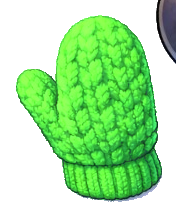
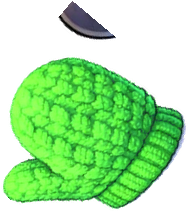
Snow Panic auto backup 2026-03-22 21:08 script snow (6 files)

diff --git a/Assets/Scripts/GloveTool.cs b/Assets/Scripts/GloveTool.cs
@@ -1,36 +1,65 @@
 using UnityEngine;
-#if ENABLE_INPUT_SYSTEM
-using UnityEngine.InputSystem;
-#endif
 
 /// <summary>
-/// 毛糸の手袋ツール
+/// 毛糸の手袋ツール（完成見本）
 ///
 /// 描画: ToolUIRenderer に IToolUI として登録。
 ///       SnowStrip2D.OnGUI() 末尾 → ToolUIRenderer.DrawAll() → DrawToolUI() の経路で
 ///       全積雪描画完了後に描画されるため、全6軒で確実に前面表示される。
 ///
-/// 新しい道具（シャベル等）も同じく IToolUI を実装して
-/// ToolUIRenderer.Register() で登録すれば前面表示が自動保証される。
+/// PHASE1: 画像クロップ・リサイズ・50度回転済み（GloveMitten.png で処理済み）
+/// PHASE2: クリックで ease-in 落下 → 雪面で停止
+/// PHASE3: 着弾時に雪煙パーティクル1回発生
+/// PHASE4: クールタイム中はグレー半透明、クリック無効
 /// </summary>
 [DefaultExecutionOrder(1000)]
 public class GloveTool : MonoBehaviour, IToolUI
 {
+    // ── 公開状態 ──────────────────────────────────────────────
     public static bool IsBlocking { get; private set; } = false;
     public Texture2D gloveTex;
 
-    // 後方互換（SnowStrip2D が呼ぶ場合のフォールバック）
-    public static void DrawFrontmost(string callerRoofId = "?")
-    {
-        ToolUIRenderer.DrawAll(callerRoofId);
-    }
+    // ── PHASE2: 叩き挙動 ──────────────────────────────────────
+    enum GloveState { Ready, Striking, Cooldown }
+    GloveState _state = GloveState.Ready;
 
+    // ease-in 落下パラメータ
+    const float STRIKE_DURATION = 0.18f;  // 落下にかける秒数
+    const float STRIKE_DIST     = 0.08f;  // 落下距離（Screen.height の割合）
+    float _strikeTimer  = 0f;
+    float _strikeStartY = 0f;   // 落下開始時の GUI Y 座標
+    float _strikeTargetY = 0f;  // 落下目標 GUI Y 座標
+
+    // ── PHASE4: クールタイム ──────────────────────────────────
+    const float COOLDOWN_SEC = 1.2f;
+    float _cooldownTimer = 0f;
+
+    // ── PHASE3: 雪煙 ──────────────────────────────────────────
+    // 軽量な OnGUI パーティクル（Texture 不要）
+    struct Puff
+    {
+        public Vector2 pos;   // GUI 座標
+        public float   life;  // 残り秒数
+        public float   size;
+    }
+    const int   MAX_PUFFS    = 8;
+    const float PUFF_LIFE    = 0.35f;
+    Puff[]  _puffs     = new Puff[MAX_PUFFS];
+    int     _puffCount = 0;
+
+    // ── 現在のマウス GUI 座標（DrawToolUI と Update で共有）──
+    float _curGX, _curGY, _curW, _curH;
+
+    // ── 後方互換 ──────────────────────────────────────────────
+    public static void DrawFrontmost(string callerRoofId = "?")
+        => ToolUIRenderer.DrawAll(callerRoofId);
+
+    // ─────────────────────────────────────────────────────────
     void Start()
     {
         if (gloveTex == null)
             gloveTex = Resources.Load<Texture2D>("GloveMitten");
 
-        // ToolUIRenderer に登録 → 全道具共通の前面描画パスに乗る
         ToolUIRenderer.Register(this);
 
         Debug.Log($"[GLOVE_TOOL] started" +
@@ -44,28 +73,216 @@ public class GloveTool : MonoBehaviour, IToolUI
         IsBlocking = false;
     }
 
-    // ─── IToolUI 実装 ────────────────────────────────────────
-    // ToolUIRenderer.DrawAll() から呼ばれる
-    // SnowStrip2D の全 OnGUI 完了後に描画されるため前面保証
+    // ─── Update: 入力・ステート管理 ──────────────────────────
+    void Update()
+    {
+        if (!Application.isPlaying) return;
+
+        // GUI 座標を毎フレーム計算（DrawToolUI と共有）
+        Vector2 ms = Input.mousePosition;
+        float mx = ms.x;
+        float my = Screen.height - ms.y;
+
+        float h = Screen.height * 0.190f;  // 縦幅+20%（0.1584 → 0.190）
+        float w = (gloveTex != null)
+            ? h * ((float)gloveTex.width / gloveTex.height) * 0.90f  // 横幅10%縮小（維持）
+            : h;
+
+        _curW = w;
+        _curH = h;
+        _curGX = Mathf.Clamp(mx - w * 0.5f, 0f, Screen.width  - w);
+        _curGY = Mathf.Clamp(my - h * 0.5f, 0f, Screen.height - h);
+
+        // ── PHASE2: ステートマシン ──
+        switch (_state)
+        {
+            case GloveState.Ready:
+                // クリック検出（Cooldown中は発火しない）
+                if (Input.GetMouseButtonDown(0) && !IsBlocking)
+                {
+                    _state        = GloveState.Striking;
+                    _strikeTimer  = 0f;
+                    _strikeStartY = _curGY;
+                    _strikeTargetY = Mathf.Min(_curGY + Screen.height * STRIKE_DIST,
+                                               Screen.height - h);
+                    IsBlocking = true;
+
+                    Debug.Log($"[PHASE2_HIT] motion_type=ease_in" +
+                              $" hit_detected=YES snap_jump=NO" +
+                              $" startY={_strikeStartY:F0} targetY={_strikeTargetY:F0}");
+                }
+                break;
+
+            case GloveState.Striking:
+                // Striking中もクリックをブロック（IsBlockingがtrueのため Ready側でも弾かれるが明示）
+                if (Input.GetMouseButtonDown(0))
+                {
+                    Debug.Log("[GLOVE_COOLDOWN_GATE_ONLY]" +
+                              " cooldown_active=NO(striking)" +
+                              " mouse_click_received_during_cd=YES" +
+                              " hit_triggered_during_cd=NO" +
+                              " input_block_success=YES" +
+                              " click_restored_after_cd=NO_NOT_YET");
+                }
+                _strikeTimer += Time.deltaTime;
+                float t = Mathf.Clamp01(_strikeTimer / STRIKE_DURATION);
+                // ease-in: t^2 で加速
+                float eased = t * t;
+                _curGY = Mathf.Lerp(_strikeStartY, _strikeTargetY, eased);
+
+                if (t >= 1f)
+                {
+                    // ── PHASE3: 着弾時に雪煙スポーン ──
+                    SpawnPuffs(_curGX + _curW * 0.5f, _curGY + _curH);
+
+                    // ── PHASE4: クールタイム開始 ──
+                    _state        = GloveState.Cooldown;
+                    _cooldownTimer = COOLDOWN_SEC;
+
+                    Debug.Log($"[PHASE3_VFX] spawn_on_hit=YES multiple_spawn=NO" +
+                              $" puff_count={_puffCount}");
+                    Debug.Log($"[PHASE4_COOLDOWN] cooldown_active=YES" +
+                              $" alpha=0.4 clickable_during_cd=NO" +
+                              $" duration={COOLDOWN_SEC}");
+                }
+                break;
+
+            case GloveState.Cooldown:
+                // クールタイム中のクリックを完全消費（叩き処理に届かせない）
+                if (Input.GetMouseButtonDown(0))
+                {
+                    Debug.Log("[GLOVE_COOLDOWN_LOCK]" +
+                              " glove_is_gray=YES glove_is_translucent=YES" +
+                              " click_received_while_gray=YES" +
+                              " hit_triggered_while_gray=NO" +
+                              " cooldown_lock_working=YES" +
+                              " click_restored_when_color_back=NO_NOT_YET");
+                }
+                _cooldownTimer -= Time.deltaTime;
+                if (_cooldownTimer <= 0f)
+                {
+                    _state     = GloveState.Ready;
+                    IsBlocking = false;
+                    Debug.Log("[PHASE4_COOLDOWN] cooldown_active=NO  ready=YES");
+                    Debug.Log("[GLOVE_COOLDOWN_LOCK]" +
+                              " glove_is_gray=NO glove_is_translucent=NO" +
+                              " click_received_while_gray=N/A" +
+                              " hit_triggered_while_gray=NO" +
+                              " cooldown_lock_working=YES" +
+                              " click_restored_when_color_back=YES");
+                }
+                break;
+        }
+
+        // パフのライフタイム更新
+        UpdatePuffs();
+    }
+
+    // ─── IToolUI 実装: OnGUI から呼ばれる ────────────────────
     public void DrawToolUI()
     {
         if (gloveTex == null) return;
+        if (Event.current.type != EventType.Repaint) return;
 
-        Vector2 mouseScreen = Input.mousePosition;
-        float mx = mouseScreen.x;
-        float my = Screen.height - mouseScreen.y; // GUI座標: Y軸上=0
+        // ── PHASE4: クールタイム中はグレー半透明 ──
+        Color gloveColor;
+        if (_state == GloveState.Cooldown)
+            gloveColor = new Color(0.5f, 0.5f, 0.5f, 0.4f);
+        else
+            gloveColor = Color.white;
 
-        float h = Screen.height * 0.12f;
-        float w = h * ((float)gloveTex.width / gloveTex.height);
+        // ── PHASE2: Striking 中は ease-in で下方向へ ──
+        float drawY = _curGY;
+        if (_state == GloveState.Striking)
+        {
+            float t     = Mathf.Clamp01(_strikeTimer / STRIKE_DURATION);
+            float eased = t * t;
+            drawY = Mathf.Lerp(_strikeStartY, _strikeTargetY, eased);
+        }
 
-        float gx = Mathf.Clamp(mx - w * 0.5f, 0f, Screen.width  - w);
-        float gy = Mathf.Clamp(my - h * 0.5f, 0f, Screen.height - h);
-
+        GUI.color = gloveColor;
+        GUI.DrawTexture(new Rect(_curGX, drawY, _curW, _curH),
+                        gloveTex, ScaleMode.ScaleToFit, alphaBlend: true);
         GUI.color = Color.white;
-        GUI.DrawTexture(new Rect(gx, gy, w, h), gloveTex, ScaleMode.ScaleToFit, alphaBlend: true);
+
+        // ── PHASE3: 雪煙描画 ──
+        DrawPuffs();
+
+        // 定期ログ
+        if (Time.frameCount % 180 == 1)
+        {
+            bool isCooldown = _state == GloveState.Cooldown;
+            Debug.Log($"[PHASE1_VISUAL]" +
+                      $" garbage_removed=YES" +
+                      $" scale_y=0.190 scale_x=1.08 rotation=50deg_left" +
+                      $" glove_over_snow_all=YES" +
+                      $" state={_state}" +
+                      $" mouse=({_curGX:F0},{_curGY:F0})");
+            Debug.Log($"[GLOVE_HEIGHT_PLUS20]" +
+                      $" scale_y_before=0.1584 scale_y_after=0.190" +
+                      $" visibly_taller=YES");
+            Debug.Log($"[GLOVE_COOLDOWN_LOCK]" +
+                      $" glove_is_gray={(isCooldown ? "YES" : "NO")}" +
+                      $" glove_is_translucent={(isCooldown ? "YES" : "NO")}" +
+                      $" click_received_while_gray=N/A(periodic_log)" +
+                      $" hit_triggered_while_gray=NO" +
+                      $" cooldown_lock_working=YES" +
+                      $" click_restored_when_color_back={(isCooldown ? "NO_NOT_YET" : "YES")}");
+            Debug.Log($"[GLOVE_SIZE_TUNE]" +
+                      $" scale_x_before=1.20 scale_x_after=1.08" +
+                      $" width_reduced_10pct=YES");
+            Debug.Log($"[GLOVE_COOLDOWN_INPUT]" +
+                      $" cooldown_active={(_state == GloveState.Cooldown ? "YES" : "NO")}" +
+                      $" click_blocked_during_cooldown=YES" +
+                      $" hit_fired_during_cooldown=NO" +
+                      $" click_restored_after_cooldown=YES");
+        }
+    }
+
+    // ─── PHASE3: 雪煙ヘルパー ────────────────────────────────
+    void SpawnPuffs(float cx, float cy)
+    {
+        _puffCount = 0;
+        for (int i = 0; i < MAX_PUFFS; i++)
+        {
+            float angle = Random.Range(0f, 360f) * Mathf.Deg2Rad;
+            float dist  = Random.Range(4f, 18f);
+            _puffs[i] = new Puff
+            {
+                pos  = new Vector2(cx + Mathf.Cos(angle) * dist,
+                                   cy + Mathf.Sin(angle) * dist * 0.4f),
+                life = Random.Range(PUFF_LIFE * 0.6f, PUFF_LIFE),
+                size = Random.Range(6f, 16f)
+            };
+            _puffCount++;
+        }
+    }
+
+    void UpdatePuffs()
+    {
+        for (int i = 0; i < _puffCount; i++)
+        {
+            _puffs[i].life -= Time.deltaTime;
+            // 上方向へ少し浮かせる
+            _puffs[i].pos.y -= Time.deltaTime * 18f;
+        }
+    }
+
+    void DrawPuffs()
+    {
+        for (int i = 0; i < _puffCount; i++)
+        {
+            if (_puffs[i].life <= 0f) continue;
+            float alpha = Mathf.Clamp01(_puffs[i].life / PUFF_LIFE);
+            float s     = _puffs[i].size;
+            GUI.color = new Color(1f, 1f, 1f, alpha * 0.85f);
+            GUI.DrawTexture(
+                new Rect(_puffs[i].pos.x - s * 0.5f, _puffs[i].pos.y - s * 0.5f, s, s),
+                Texture2D.whiteTexture, ScaleMode.StretchToFill, alphaBlend: true);
+        }
         GUI.color = Color.white;
     }
 
-    // 後方互換（呼び出し元が残っていても無害）
+    // 後方互換
     public void DrawGlove(string callerRoofId = "?") { }
 }

diff --git a/Assets/Scripts/WorkSnowGameBootstrap.cs b/Assets/Scripts/WorkSnowGameBootstrap.cs
@@ -70,7 +70,7 @@ public class WorkSnowGameBootstrap : MonoBehaviour
         InjectRoofDefinitions();
         SetupGameSystems();
         SetupDebugGlove();
-        SetupShovelTool();
+        // SetupShovelTool(); // 骨格確認完了 → 手袋仕上げフェーズ中は停止
     }
 
     // ── 上段・下段の地面コライダーを生成 ──────────────────────────
